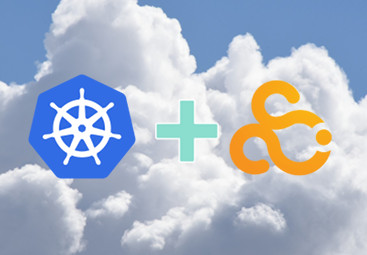
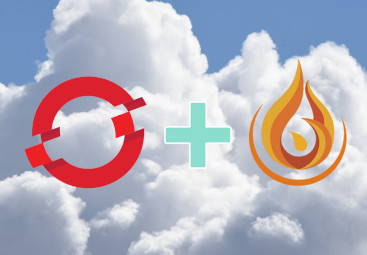
Add openshift article

diff --git a/content/getstarted/03-item.md b/content/getstarted/03-item.md
@@ -1,0 +1,178 @@
++++
+description = "Making storage solutions available in OpenShift with Ember-CSI is easy, but having a guide the first time we do it makes it a breeze. In this article we'll see how to deploy an Ember-CSI backend on an existing OpenShift cluster or deploying it after creating a single node OpenShift cluster inside a VM."
+thumbnail = "images/03-getstarted-thumb.jpg"
+image = "images/03-getstarted.jpg"
+title = "OpenShift 4.x and Ember CSI"
+slug = "openshift"
+author = "Gorka Eguileor"
+draft = false
+hidesidebar = true
+publishDate=2021-02-16T16:00:00+01:00
+lastmod=2021-02-16T16:00:00+01:00
+weight = 1
++++
+
+Deploying CSI plugins is a non trivial task, and for Ember-CSI this installation would be even more complex, since there are many supported backends we need to find out what are the right configuration options for ours before we can do the deployment.
+
+In Kubernetes installation is usually done using manifests or Helm charts, but for OpenShift clusters CSI plugins can have their own operator to facilitate the installation process.
+
+In this article we'll show how easy it is to use the Ember-CSI operator to add our storage solution to OpenShift and also provide an easy mechanism to deploy a POC OpenShift 4.5 cluster with an LVM backend.
+
+### Requirements
+
+In order to deploy Ember-CSI using its operator we need an OpenShift cluster.
+
+If we don't have one, we can deploy a local development cluster using [CodeReady Containers](https://developers.redhat.com/products/codeready-containers/overview) as explained in the next section, and if we have one we can skip directly to the [Install the Operator section](#install-the-operator).
+
+Deploying CodeReady Containers requires:
+
+- 4 virtual CPUs (vCPUs)
+- 9 GB of free memory
+- 35 GB of storage space
+
+When using our own OpenShift cluster please make sure that `iscsid` and `multipathd` services are running on the hosts.
+
+### OpenShift Cluster
+
+If we are going to use our own OpenShift cluster we can skip this section.
+
+CodeReady Containers is the quickest way to get started building OpenShift clusters. It is designed to run on a local computer to simplify setup and testing, and emulate the cloud development environment locally with all of the tools needed to develop container-based applications.
+
+An OpenShift cluster deployed using CodeReady Containers (CRC) won't give us everything we need for CSI plugins out of the box, since the tool is meant for application development, and some extra steps are necessary.
+
+Instead of explaining all these steps we will be using a tool we use to run OpenShift CSI end-to-end tests: [crc-tests](https://github.com/embercsi/crc-tests).
+
+This tool will make sure that the CRC OpenShift cluster deployment is ready for CSI plugins, and getting our cluster ready is as easy as:
+
+```shell
+
+$ git clone https://github.com/embercsi/crc-tests
+$ cd crc-tests
+$ ./start.sh run
+
+```
+
+This last step will take a while to complete, but once it's done we should see something like:
+
+<p style="background-color:black; color:yellow; padding-left: 10px; Font-family: 'Lucida Console', Monaco, monospace;";>
+If you are running this on a different host/VM, you can access the web console by:<br />
+  - Setting your browser's proxy to this host's IP and port 8888<br />
+  - Going to https://console-openshift-console.apps-crc.testing<br />
+  - Using below credentials (kubeadmin should be entered as kube:admin)<br />
+To login as a regular user, run 'oc login -u developer -p developer https://api.crc.testing:6443'.<br />
+To login as an admin, run 'oc login -u kubeadmin -p HqC3I-wgtiB-q7qCf-KEsuK https://api.crc.testing:6443'<br />
+<br />
+To access the cluster from the command line you can run:<br />
+  $ eval `/home/vagrant/crc-linux/crc oc-env`<br />
+  $ ./start.sh login<br />
+</p><br />
+
+### Install the Operator
+
+There are multiple ways to install the operator.  We can use the `start.sh` script, use our own manifest, or use the OpenShift's web console.
+
+If we have used the `start.sh` script to deploy an OpenShift cluster we could use the same script to deploy the operator:
+
+```shell
+
+$ ./start operator
+
+```
+
+If we are using our own cluster, or if we don't want to rely on the `start.sh` script, we will deploy it using OpenShift's web console.
+
+<u>**Note**</u>: If we used `start.sh` to deploy our cluster we must set our browser's proxy to port 8888 and the IP of the node where we run the script and go to [https://console-openshift-console.apps-crc.testing](https://console-openshift-console.apps-crc.testing) to log in.  We'll also see a security warning we'll have to accept by clicking on _Advanced..._ and then on _Accept the Risk and Continue_.
+
+{{< figure src="/images/03-getstarted/security-warning.png" class="zoomable" >}}
+
+After logging in the OpenShift console as an administrator we go to the OperatorHub:
+
+![Operator hub](/images/03-getstarted/01-operatorhub.png)
+
+Then we search for the Ember-CSI operator and click on it:
+
+![Operator hub search](/images/03-getstarted/02-operatorhub-search-ember.png)
+
+If we are installing the Community Operator we'll be required to confirm that we understand the implications.  We click _Continue_:
+
+![Confirm community operator](/images/03-getstarted/03-confirm-community.png)
+
+And we are presented with the Ember-CSI Operator page, where we click _Install_:
+
+![Install](/images/03-getstarted/04-install-1.png)
+
+And then _Install_ again:
+
+{{< figure src="/images/03-getstarted/05-install-2.png" class="zoomable" >}}
+
+This will trigger the download and execution of the operator container image. It will take a couple of seconds, and in the meantime we'll see that the installation is in progress and maybe a couple of weird entries saying at the beginning:
+
+{{< figure src="/images/03-getstarted/06-installing.png" class="zoomable" >}}
+
+Once the operator reaches the _Succeeded_ status we click on it:
+
+![Succeeded](/images/03-getstarted/07-succeeded.png)
+
+### Deploy the Backend
+
+If we don't have a proper storage backend, or we don't want to use it for these tests, and we have deployed the OpenStack cluster using the `start.sh` script, we can use the LVM VG that was provisioned on the VM by the script.  We can deploy Ember-CSI with this backend using the web console or the script:
+
+
+```shell
+
+$ ./start.sh driver
+
+```
+
+To deploy the Ember-CSI using the OpenShift web console we need to create a new _Storage Backend_ instance with the operator:
+
+![Succeeded](/images/03-getstarted/08-create-storage-banckend.png)
+
+We could configure the backend using YAML, but then we would have to know the exact configuration options available to our backend, which is inconvenient, and that's why since OpenShift 4.5 the default is to use the form provided by the operator.
+
+In the form we should change the *name* field from *default* to a unique and meaningful name to identify this backend. Then go to the *Driver* dropdown and select the name of our storage backend.  After selecting the appropriate driver, the relevant configuration options for the selected driver will be displayed.
+
+<u>**Note**</u>: If we deployed the cluster with `start.sh` and we want to manually use the LVM VG we need to select the appropriate *Driver* inside the *Driver Settings* section which is *LVMVolume*, then set just two of the driver's options: *Volume Group* to *ember-volumes* and *Target Helper* to *lioadm*.
+
+![Name and driver](/images/03-getstarted/09-name-and-driver.png)
+
+After setting the configuration options we click *Create* at the botom of the page:
+
+![Create](/images/03-getstarted/10-create-backend.png)
+
+And a new *EmberStorageBackend* entity will be created.  Don't wait for the *Status* to change, since it won't:
+
+{{< figure src="/images/03-getstarted/11-EmberStorageBackends.png" class="zoomable" >}}
+
+We can see that the deployment is complete going to *Stateful Sets*, *Daemon Sets*, and *Replica Sets* pages in the *Workloads* section to see that the deployed pods are running:
+
+{{< figure src="/images/03-getstarted/12-StatefulSet.png" class="zoomable" >}}
+<br />
+
+{{< figure src="/images/03-getstarted/13-DaemonSet.png" class="zoomable" >}}
+<br />
+
+{{< figure src="/images/03-getstarted/14-ReplicaSets.png" class="zoomable" >}}
+<br />
+
+<u>**Note**</u>: If there are issues in the new *Stateful*, *Daemon*, or *Replica Sets* we can look into the [Ember-CSI troubleshooting guide](https://docs.ember-csi.io/en/latest/troubleshooting.html) for details on how to look into installation issues, or contact the team on [Twitter](https://twitter.com/ember_csi), [IRC](https://kiwiirc.com/client/irc.freenode.net/ember-csi), [Google groups](https://groups.google.com/forum/#!forum/embercsi), or [GitHub issues](https://github.com/embercsi/ember-csi/issues).
+
+We can also check that a new *Storage Class* has been created in *Storage* > *Storage Classes*. The name of the new class will be *example.ember-csi.io* where *example* will be the name we gave to the *Storage Backend* in the form:
+
+{{< figure src="/images/03-getstarted/15-StorageClass.png" class="zoomable" >}}
+
+We can set this *Storage Class* as the default class by going to its actions and selecting *Edit Annotations*:
+
+{{< figure src="/images/03-getstarted/16-edit-annotations.png" class="zoomable" >}}
+
+And then adding key `storageclass.kubernetes.io/is-default-class` with the value of `true`.
+
+![Defaults SC](/images/03-getstarted/17-default-sc.png)
+
+<u>**_Warning_**</u>: If we already have a default and we want to change it to this one, we'll need to modify the current default by removing the annotation or setting it to `false`.
+
+### Next steps
+
+If we have configured everything right we'll now be able to use our storage solution into OpenShift using the new `StorageClass` that was created by the operator in our `PersistenceVolumeClaims` (_PVC_).
+
+Detailing how to use storage in OpenShift is out of the scope of this article, but there is plenty information on [Ember-CSI's usage documentation page](https://docs.ember-csi.io/en/latest/usage.html) as well as the [OpenShift's persistence storage page](https://docs.openshift.com/container-platform/latest/storage/understanding-persistent-storage.html).

diff --git a/content/getstarted/01-item.md b/content/getstarted/01-item.md
@@ -9,7 +9,7 @@ draft = false
 hidesidebar = true
 publishDate=2018-08-02T19:05:52+02:00
 lastmod=2019-03-13T16:30:00+01:00
-weight = 1
+weight = 2
 +++
 Many things need to be considered when deploying a CSI plugin in Kubernetes, making it a painful experience for many first time users.  To ease this first contact with Kubernetes and CSI, the Ember repository comes with a [Kubernetes example that automates the deployment of Kubernetes with Ember CSI using CSI spec version 1.0](https://github.com/embercsi/ember-csi/tree/master/examples/k8s_v1.13-CSI_v1.0).
 

diff --git a/content/getstarted/02-item.md b/content/getstarted/02-item.md
@@ -9,7 +9,7 @@ draft = false
 hidesidebar = true
 publishDate=2018-08-02T19:05:52+02:00
 lastmod=2019-06-03T14:30:57-05:00
-weight = 2
+weight = 3
 +++
 [KubeVirt](https://kubevirt.io) is a virtual machine management add-on for [Kubernetes](https://kubernetes.io). It allows users to run VMs alongside containers in the their Kubernetes or [OpenShift](https://www.openshift.com) clusters. This document describes a quick way to deploy either Kubernetes or OpenShift, KubeVirt and [Ember-CSI](https://ember-csi.io).
 
